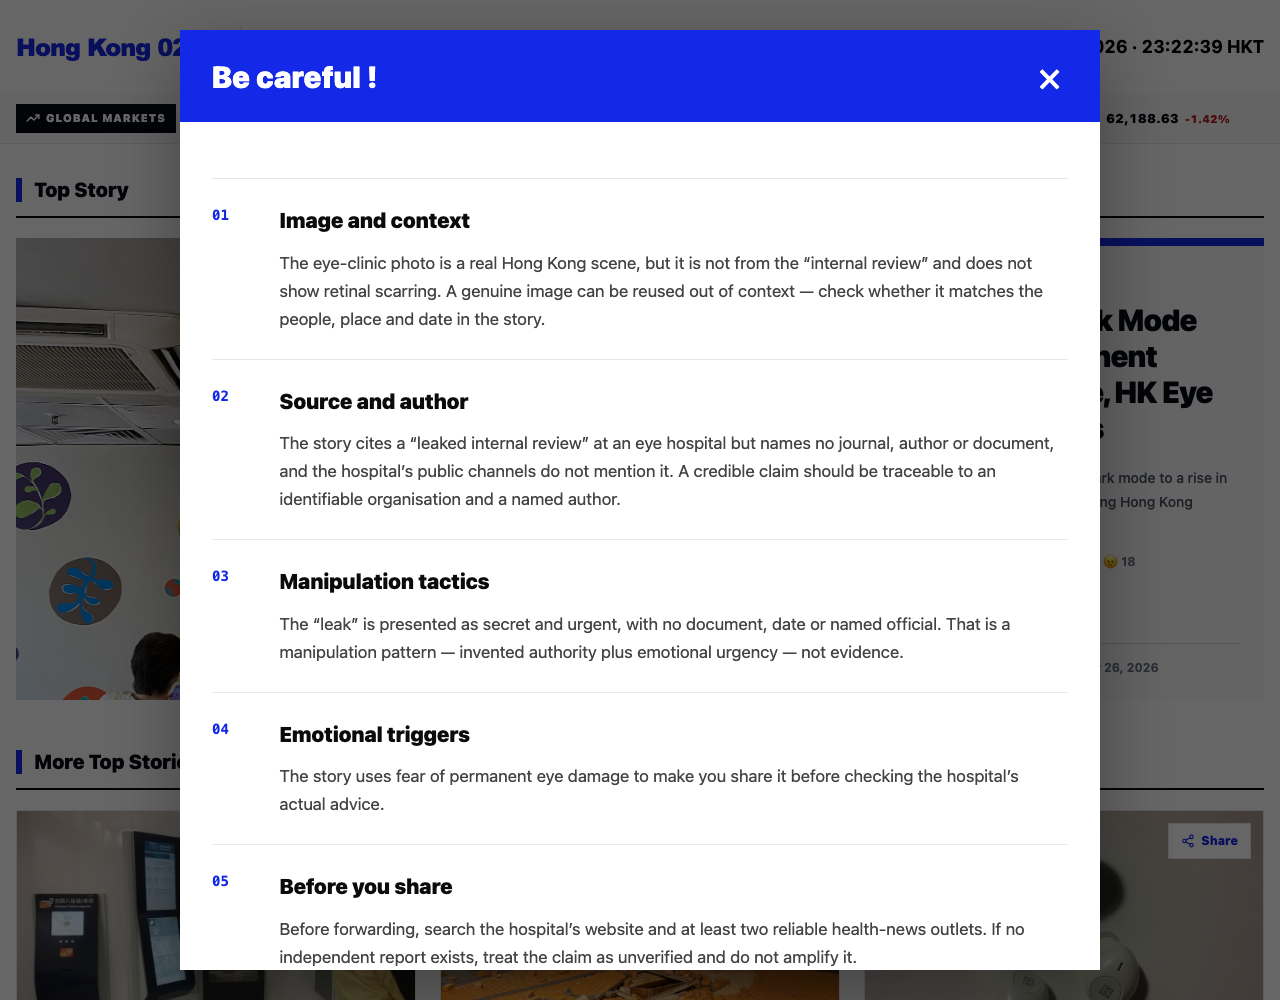
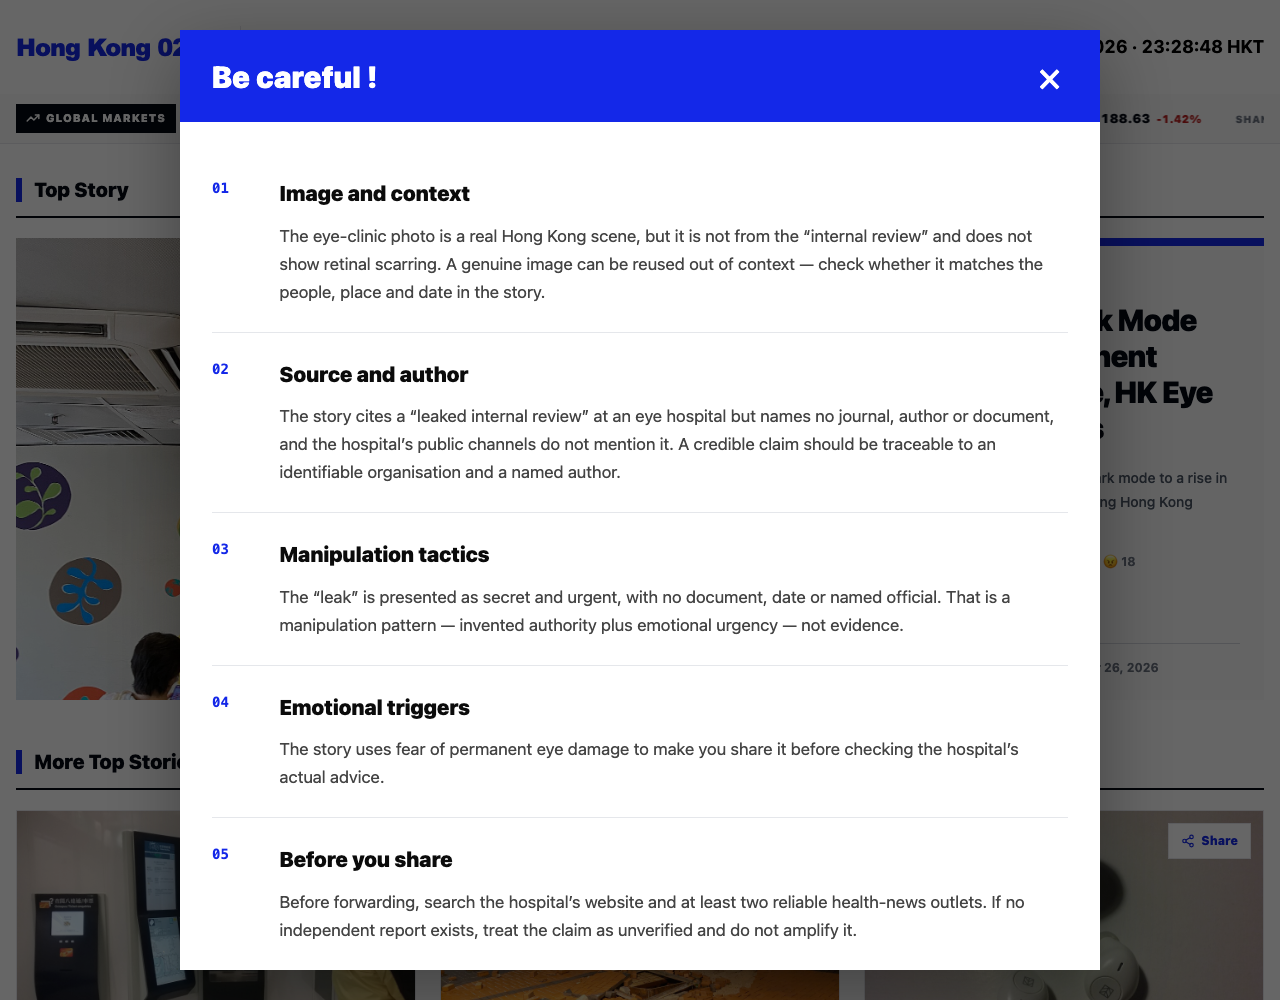
Add back-to-previous-page button on tips page and remove top divider

diff --git a/public/js/app.js b/public/js/app.js
@@ -164,6 +164,7 @@
     $('share-ai-intro').style.display = real ? 'none' : '';
     $('share-tips').style.display = real ? '' : 'none';
     $('share-warn-5-item').style.display = real ? 'none' : '';
+    $('share-back-tips').style.display = real ? 'none' : '';
     if (real) {
       $('share-warn-1-title').textContent = 'Source and author';
       $('share-warn-1-text').textContent = a.warningSource || '';
@@ -219,6 +220,12 @@
     $('share-extra-tips').addEventListener('click', () => {
       $('share-ai-intro').style.display = 'none';
       $('share-tips').style.display = '';
+      const sc = $('share-warning').querySelector('.popup-scroll');
+      if (sc) sc.scrollTop = 0;
+    });
+    $('share-back-tips').addEventListener('click', () => {
+      $('share-tips').style.display = 'none';
+      $('share-ai-intro').style.display = '';
       const sc = $('share-warning').querySelector('.popup-scroll');
       if (sc) sc.scrollTop = 0;
     });

diff --git a/public/js/article.js b/public/js/article.js
@@ -225,6 +225,7 @@
     $('warn-ai-intro').style.display = real ? 'none' : '';
     $('warn-tips').style.display = real ? '' : 'none';
     $('warn-5-item').style.display = real ? 'none' : '';
+    $('warn-back-tips').style.display = real ? 'none' : '';
     if (real) {
       $('warn-1-title').textContent = 'Source and author';
       $('warn-1-text').textContent = article.warningSource || '';
@@ -387,6 +388,12 @@
     $('warn-extra-tips').addEventListener('click', () => {
       $('warn-ai-intro').style.display = 'none';
       $('warn-tips').style.display = '';
+      const sc = $('inspector').querySelector('.popup-scroll');
+      if (sc) sc.scrollTop = 0;
+    });
+    $('warn-back-tips').addEventListener('click', () => {
+      $('warn-tips').style.display = 'none';
+      $('warn-ai-intro').style.display = '';
       const sc = $('inspector').querySelector('.popup-scroll');
       if (sc) sc.scrollTop = 0;
     });

diff --git a/public/css/hk02.css b/public/css/hk02.css
@@ -262,3 +262,11 @@ body {
   .ai-points p { font-size: 14px; }
   .ai-cta { font-size: 15px; padding: 13px 16px; }
 }
+
+/* Tips page: no divider line at the top, plus a return button */
+#share-tips .popup-warnings, #warn-tips .popup-warnings { border-top: 0; margin-top: 0; }
+.ai-back { display: block; width: 100%; margin-top: 20px; padding: 13px 20px; background: #fff; color: var(--brand); border: 1px solid var(--brand); font-size: 15px; font-weight: 900; font-family: inherit; cursor: pointer; }
+.ai-back:hover { background: #eef3ff; }
+@media (max-width: 640px) {
+  .ai-back { font-size: 14px; padding: 12px 16px; }
+}

diff --git a/public/index.html b/public/index.html
@@ -218,9 +218,10 @@
               </div>
             </section>
           </div>
+          <button type="button" class="ai-back" id="share-back-tips">← Back to previous page</button>
         </div>
       </div>
-    </aside>    </aside>
+    </aside>
 
     <!-- Idle reminder (shown once after 1 minute without interaction) -->
     <div class="popup-backdrop" id="idle-backdrop"></div>

diff --git a/public/article.html b/public/article.html
@@ -125,6 +125,7 @@
             </div>
           </section>
         </div>
+        <button type="button" class="ai-back" id="warn-back-tips">← Back to previous page</button>
       </div>
     </div>
   </aside>
